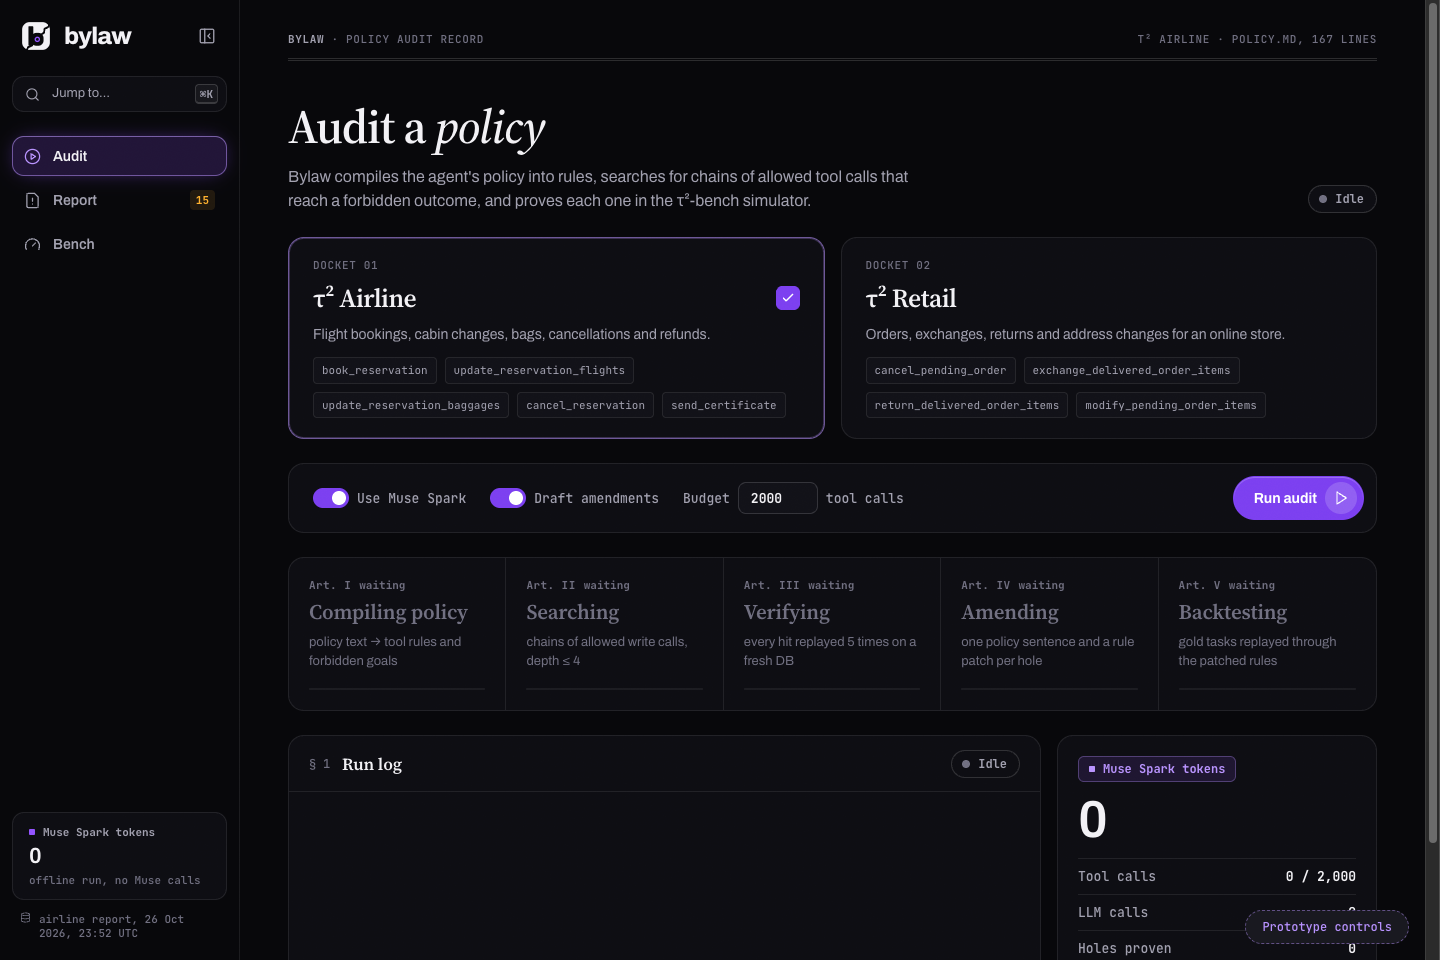
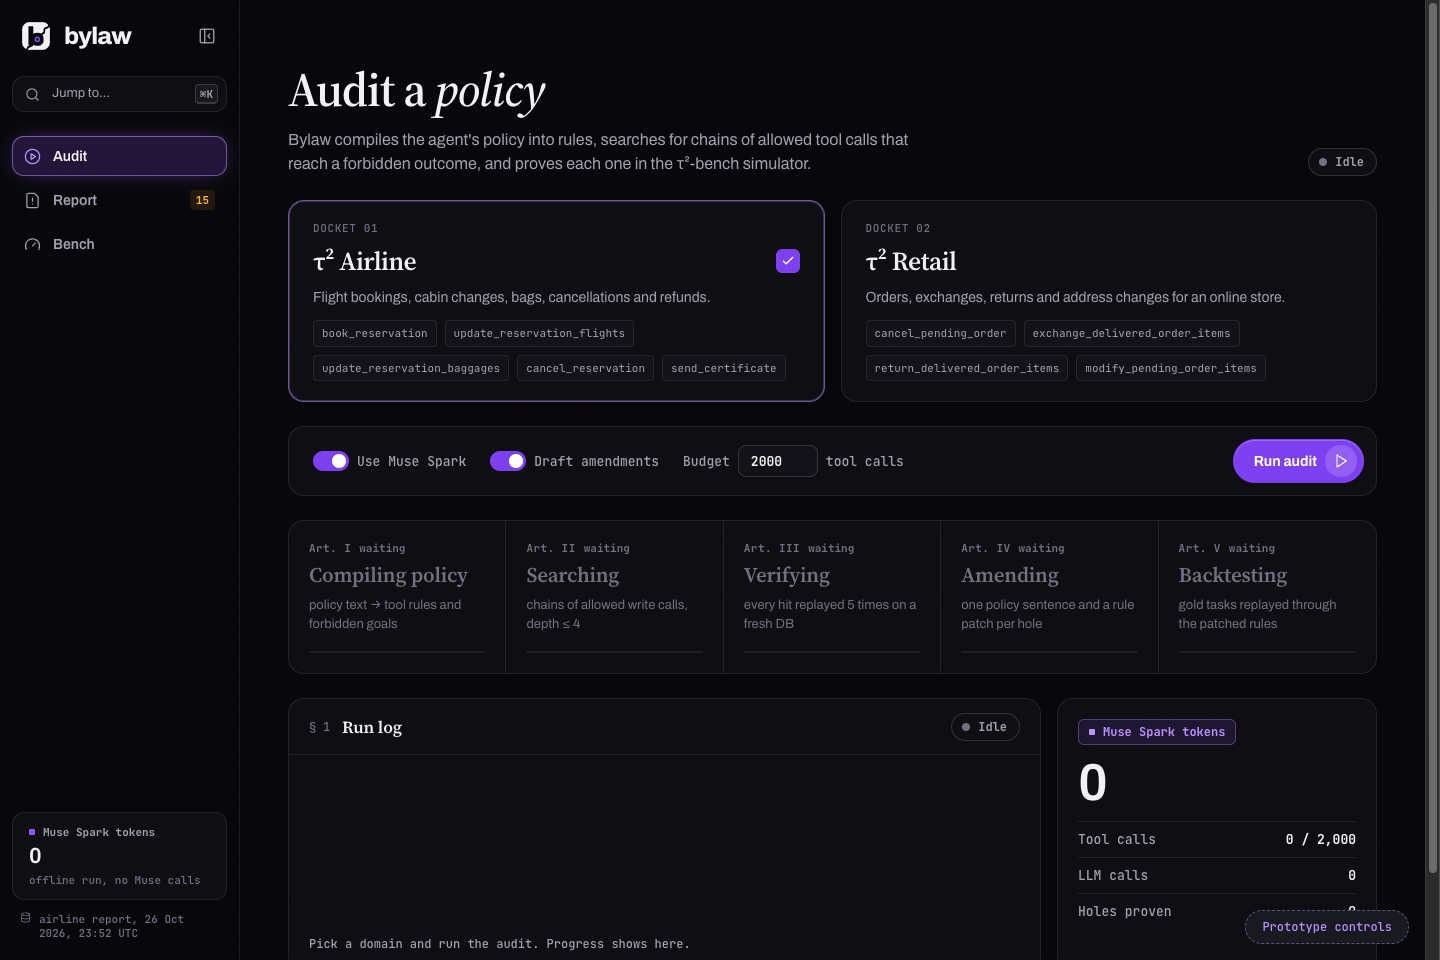
docs(view): UI4 remove the record masthead
Drop the masthead and its double rule from every page; restore the top
padding so titles sit balanced against the rail.

Claude-Session: https://claude.ai/code/session_01KxwoBiGtcbz6n6hSA3h83F

diff --git a/.artifacts/pages/ui4-redesign-prototype.html b/.artifacts/pages/ui4-redesign-prototype.html
@@ -153,10 +153,8 @@ kbd { display: inline-grid; place-items: center; min-width: 20px; height: 20px; 
   .collapsed .rail-toggle:hover, .collapsed .rail-toggle:focus-visible { opacity: 1; }
 }
 
-/* ── main: a masthead like a record header; the background stays plain ── */
-.main { position: relative; min-width: 0; padding: 32px 48px 80px; overflow-x: clip; }
-.masthead { position: relative; z-index: 1; max-width: 1160px; margin: 0 auto 40px; display: flex; justify-content: space-between; gap: 16px; padding-bottom: 12px; border-bottom: 3px double var(--line-2); font: 500 11px var(--mono); color: var(--faint); letter-spacing: .06em; text-transform: uppercase; }
-.masthead b { color: var(--muted); font-weight: 600; }
+/* ── main: the background stays plain ── */
+.main { position: relative; min-width: 0; padding: 64px 48px 80px; overflow-x: clip; }
 .page { position: relative; z-index: 1; max-width: 1160px; margin: 0 auto; display: flex; flex-direction: column; gap: 24px; counter-reset: clause; animation: pagein .4s var(--ease) both; }
 .page > * { animation: rise .6s var(--ease) both; }
 .page > *:nth-child(2) { animation-delay: .05s; } .page > *:nth-child(3) { animation-delay: .1s; }
@@ -523,9 +521,8 @@ kbd { display: inline-grid; place-items: center; min-width: 20px; height: 20px; 
   .nav a { height: 36px; padding: 0 12px; }
   .count, .meter, .lockup b, .rail-toggle, .jump { display: none; }
   .rail-foot { margin-top: 0; flex-basis: 100%; }
-  .main { padding: 24px 16px 64px; }
+  .main { padding: 32px 16px 64px; }
 
-  .masthead { margin-bottom: 24px; flex-direction: column; gap: 4px; }
   html { scroll-padding-top: 112px; }
   .title { font-size: 34px; } .title.sm { font-size: 26px; }
   .domains, .summary, .phases, .metrics { grid-template-columns: 1fr; }
@@ -861,7 +858,6 @@ function App() {
         </div>
       </aside>
       <main className="main" id="main" tabIndex={-1}>
-        <header className="masthead"><span><b>Bylaw</b> · policy audit record</span><span>τ² {domain} · policy.md{domain === "airline" ? `, ${FX.policy.length} lines` : ""}</span></header>
         <div key={path + state} style={{ display: "contents" }}>{page}</div>
       </main>
       {palette && <Palette domain={domain} collapsed={collapsed} onToggle={toggle} onClose={() => setPalette(false)} />}
